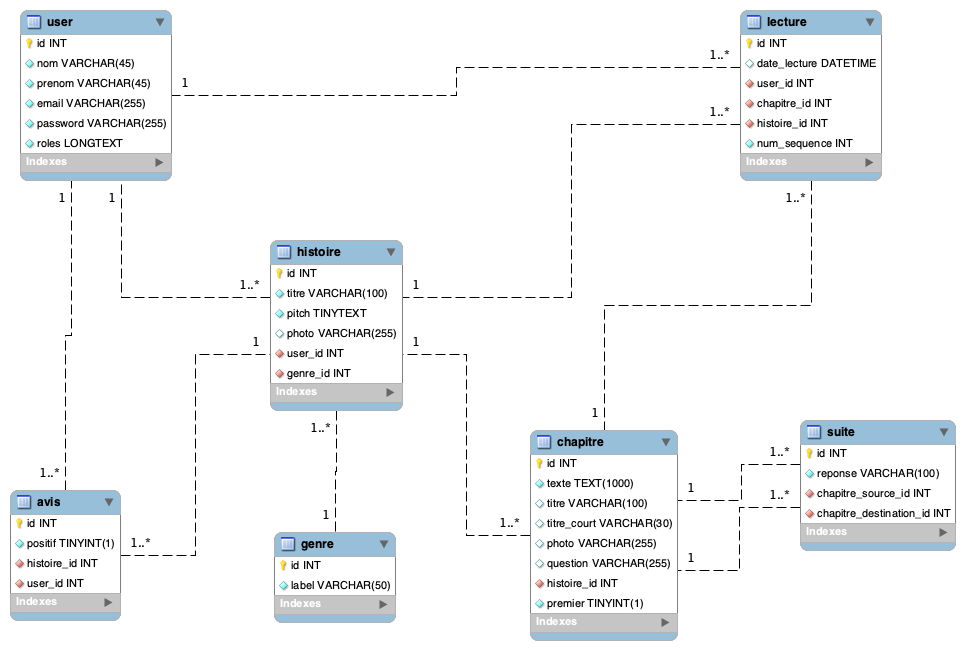
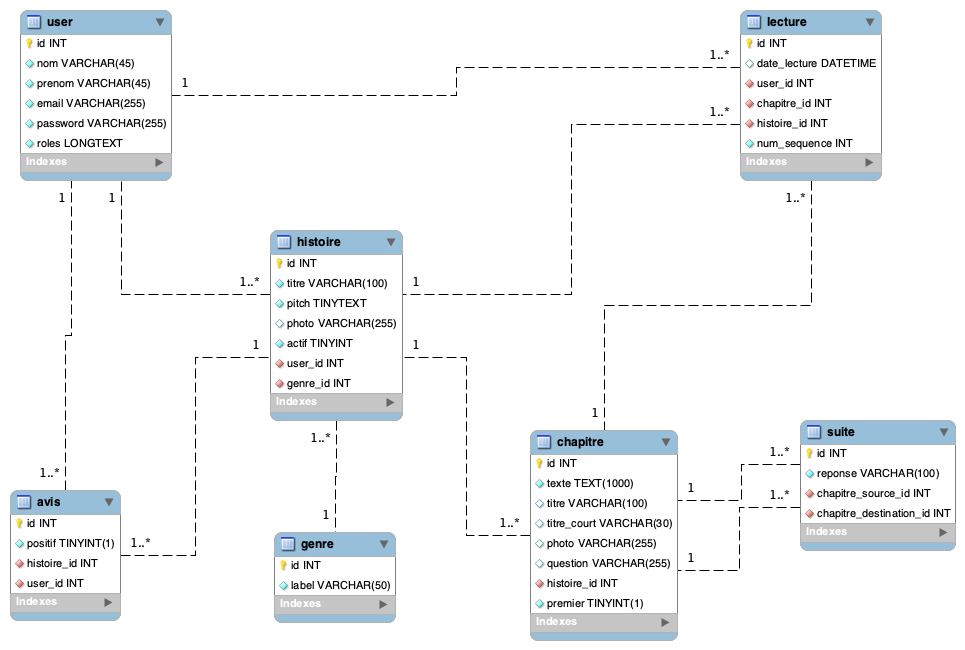
Ajout du champ actif dans la table histoire

Changed region(s): [[0.2487, 0.3385, 0.4352, 0.6769]]

diff --git a/src/DataFixtures/AppFixtures.php b/src/DataFixtures/AppFixtures.php
@@ -47,6 +47,7 @@ class AppFixtures extends Fixture {
              En même temps, cela lui permet au mois de représenter des nombres en mode binaire. C'est déjà cela !");
         $histoire->setPhoto("https://bathboxoffice.org.uk/wp-content/uploads/2017/10/the-octet-logo-mall-2.jpg");
         $histoire->setUser($user);
+        $histoire->setActif(true);
         $histoire->setGenre($genreSF);
         $manager->persist($histoire);
 
@@ -171,6 +172,7 @@ class AppFixtures extends Fixture {
         $histoire->setTitre('THX1138');
         $histoire->setPitch("THX1138 est un robot mal dans sa peau et qui cherche un sens à sa vie.");
         $histoire->setPhoto("https://m.media-amazon.com/images/M/MV5BYzRiY2I3M2EtODJkMy00NTEyLTgxNmYtYzYwYjk1ZDE1MDE1XkEyXkFqcGdeQXVyNTAyODkwOQ@@._V1_UY1200_CR111,0,630,1200_AL_.jpg");
+        $histoire->setActif(true);
         $histoire->setUser($asimov);
         $histoire->setGenre($genreSF);
         $manager->persist($histoire);

diff --git a/src/Entity/Histoire.php b/src/Entity/Histoire.php
@@ -27,7 +27,6 @@ class Histoire {
      */
     private $pitch;
 
-
     /**
      * @ORM\Column(type="string", length=256)
      */
@@ -42,6 +41,10 @@ class Histoire {
      * @ORM\ManyToOne(targetEntity="App\Entity\User")
      */
     private $user;
+    /**
+     * @ORM\Column(type="boolean")
+     */
+    private $actif;
 
     /**
      * @return mixed
@@ -119,6 +122,20 @@ class Histoire {
      */
     public function setUser($user): void {
         $this->user = $user;
+    }
+
+    /**
+     * @return mixed
+     */
+    public function getActif() {
+        return $this->actif;
+    }
+
+    /**
+     * @param mixed $actif
+     */
+    public function setActif($actif): void {
+        $this->actif = $actif;
     }
 
 }
